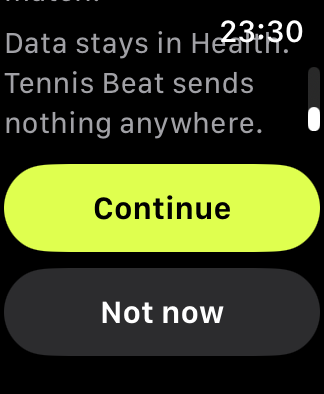
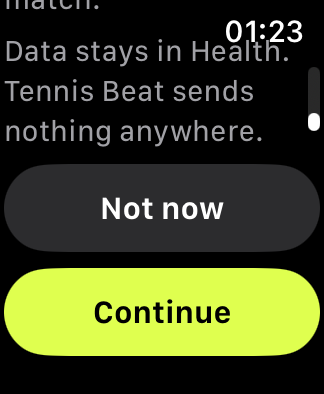
feat(watch): pin Continue at the default size (Denys, #29); review 1 fixes
Continue is pinned to the bottom at the default text size and smaller, so it
shows without scrolling on 40 mm (Denys's design approval condition,
https://github.com/dfinchenko/tennis-beat/pull/29#issuecomment-6203433908);
at larger sizes it scrolls with the text. New UI test: the text scrolls above
the pinned Continue. Review 1: R1-1 evidence entries, R1-2
test-expectation-changes.md, R1-3 the FR-004 test reads the catalogs, R1-4
allow() in the docs, R1-5 design approval link, R1-6 device check 2.

diff --git a/TennisBeat/TennisBeat Watch App/Onboarding/HealthOnboardingView.swift b/TennisBeat/TennisBeat Watch App/Onboarding/HealthOnboardingView.swift
@@ -2,12 +2,14 @@ import SwiftUI
 
 /// Health onboarding (spec 003 Story 1, FR-002; `docs/design/screens/watch-0-health-onboarding.md`):
 /// what Tennis Beat saves to and reads from Health, with Continue (the system sheet) and Not
-/// now. It scrolls and has no Dynamic Type cap (US6 s2).
+/// now. It scrolls and has no Dynamic Type cap (US6 s2); at the default size Continue is
+/// pinned to the bottom so it shows without scrolling (Denys, #29).
 struct HealthOnboardingView: View {
   /// Catalog keys, also the identifiers (contract §1).
   private static let lines = (1...3).map { "health.onboarding.line.\($0)" }
   @Environment(HealthOnboarding.self) private var onboarding
   @State private var isRequesting = false
+  @Environment(\.dynamicTypeSize) private var dynamicTypeSize
 
   var body: some View {
     ScrollView {
@@ -18,6 +20,7 @@ struct HealthOnboardingView: View {
           .fixedSize(horizontal: false, vertical: true)
           .accessibilityAddTraits(.isHeader)
           .accessibilityIdentifier("health.onboarding.title")
+          .accessibilitySortPriority(4)
 
         ForEach(Self.lines, id: \.self) { key in
           Text(LocalizedStringKey(key))
@@ -25,23 +28,10 @@ struct HealthOnboardingView: View {
             .foregroundStyle(Color.watchTextSecondary)
             .fixedSize(horizontal: false, vertical: true)
             .accessibilityIdentifier(key)
+            .accessibilitySortPriority(3)
         }
 
-        Button {
-          isRequesting = true
-          Task {
-            await onboarding.allow()
-            isRequesting = false
-          }
-        } label: {
-          Text("health.onboarding.continue")
-            .font(.watchTitle)
-            .multilineTextAlignment(.center)
-        }
-        .buttonStyle(CapsuleButtonStyle(fill: .brandBall, text: .brandOnBall))
-        .disabled(isRequesting)
-        .accessibilityIdentifier("health.onboarding.continue")
-        .padding(.top, 4)
+        if !pinsContinue { continueButton }
 
         Button(action: onboarding.notNow) {
           Text("health.onboarding.notNow")
@@ -51,10 +41,41 @@ struct HealthOnboardingView: View {
         .buttonStyle(CapsuleButtonStyle(fill: .watchSurfaceRaised, text: .watchTextPrimary))
         .disabled(isRequesting)
         .accessibilityIdentifier("health.onboarding.notNow")
+        .accessibilitySortPriority(1)
+      }
+    }
+    // Denys's design condition on #29: at the default size Continue stays visible without
+    // scrolling; at larger sizes it scrolls with the text, as on the Controls page.
+    .safeAreaInset(edge: .bottom) {
+      if pinsContinue {
+        continueButton.background(Color.watchBackground)
       }
     }
     .accessibilityElement(children: .contain)
     .accessibilityIdentifier("health.onboarding")
+  }
+
+  /// Continue is pinned at the default text size and smaller.
+  private var pinsContinue: Bool { dynamicTypeSize <= .large }
+
+  private var continueButton: some View {
+    Button {
+      isRequesting = true
+      Task {
+        await onboarding.allow()
+        isRequesting = false
+      }
+    } label: {
+      Text("health.onboarding.continue")
+        .font(.watchTitle)
+        .multilineTextAlignment(.center)
+    }
+    .buttonStyle(CapsuleButtonStyle(fill: .brandBall, text: .brandOnBall))
+    .disabled(isRequesting)
+    .accessibilityIdentifier("health.onboarding.continue")
+    // Read after the text and before Not now, wherever it is drawn.
+    .accessibilitySortPriority(2)
+    .padding(.top, 4)
   }
 }
 

diff --git a/TennisBeat/TennisBeat Watch AppTests/InfoPlistTextTests.swift b/TennisBeat/TennisBeat Watch AppTests/InfoPlistTextTests.swift
@@ -41,13 +41,19 @@ struct InfoPlistTextTests {
     }
   }
 
-  @Test("FR-004 the EN read text names heart rate and active energy")
-  func readTextNamesTypes() {
-    let english = Self.readText["en"] ?? ""
-    #expect(english.contains("heart rate") && english.contains("active energy"))
-    // Positive control: the spec 002 text names heart rate only, and fails the check.
+  /// Whether a read text names both types FR-003 reads.
+  static func namesBothTypes(_ text: String) -> Bool {
+    text.contains("heart rate") && text.contains("active energy")
+  }
+
+  @Test(
+    "FR-004 each catalog's EN read text names heart rate and active energy", arguments: catalogs)
+  func readTextNamesTypes(catalog: URL) throws {
+    let english = try Self.values("NSHealthShareUsageDescription", in: catalog)["en"] ?? ""
+    #expect(Self.namesBothTypes(english), "\(catalog.lastPathComponent)")
+    // Positive control: the spec 002 text names heart rate only, and fails the same check.
     let old =
       "Tennis Beat reads your heart rate to show it in your match summary. Health data stays in the Health app."
-    #expect(!(old.contains("heart rate") && old.contains("active energy")))
+    #expect(!Self.namesBothTypes(old))
   }
 }

diff --git a/TennisBeat/TennisBeat Watch AppUITests/HealthOnboardingUITests.swift b/TennisBeat/TennisBeat Watch AppUITests/HealthOnboardingUITests.swift
@@ -47,6 +47,21 @@ final class HealthOnboardingUITests: XCTestCase {
     }
   }
 
+  /// US1 s2 with the pinned Continue: the text scrolls, so the last line and Not now come into
+  /// view above Continue at the default size.
+  @MainActor
+  func testUS1s2TextScrollsAbovePinnedContinue() {
+    let app = launchOnboarding()
+    let continueButton = app.element("health.onboarding.continue")
+    let notNow = app.element("health.onboarding.notNow")
+    let lastLine = app.element("health.onboarding.line.3")
+    for _ in 0..<3 where notNow.frame.maxY > continueButton.frame.minY + 1 { app.dragUp() }
+    XCTAssertGreaterThanOrEqual(notNow.frame.minY, app.frame.minY, "Not now above the screen")
+    XCTAssertLessThanOrEqual(
+      notNow.frame.maxY, continueButton.frame.minY + 1, "Not now under Continue")
+    XCTAssertGreaterThanOrEqual(lastLine.frame.minY, app.frame.minY - 1, "line 3 scrolled past")
+  }
+
   @MainActor
   func testUS1s3ContinueOpensNewMatch() {
     let app = launchOnboarding()

diff --git a/TennisBeat/TennisBeat Watch AppUITests/Support/XCUIApplication+Helpers.swift b/TennisBeat/TennisBeat Watch AppUITests/Support/XCUIApplication+Helpers.swift
@@ -142,3 +142,15 @@ extension XCUIApplication {
     return false
   }
 }
+
+extension XCUIApplication {
+  /// Drags the content up by most of the screen, like a finger. On the watch simulator a
+  /// quick `swipeUp()` doesn't always scroll a `ScrollView` that has a bottom inset (the
+  /// pinned Continue of the Health onboarding, spec 003); a drag and the Digital Crown do.
+  @MainActor
+  func dragUp() {
+    let start = coordinate(withNormalizedOffset: CGVector(dx: 0.5, dy: 0.6))
+    let end = coordinate(withNormalizedOffset: CGVector(dx: 0.5, dy: 0.1))
+    start.press(forDuration: 0.1, thenDragTo: end)
+  }
+}

diff --git a/TennisBeat/TennisBeat Watch AppUITests/ScreenshotUITests.swift b/TennisBeat/TennisBeat Watch AppUITests/ScreenshotUITests.swift
@@ -22,7 +22,9 @@ final class ScreenshotUITests: XCTestCase {
       arguments, language: language, readyElement: "health.onboarding.title")
     app.element("health.onboarding").swipeDown()
     attach(app, "0-health-onboarding")
-    app.reveal(app.element("health.onboarding.notNow"))
+    // Continue is pinned at the default size, so `reveal` sees Not now as on screen; drag the
+    // text to its end instead.
+    for _ in 0..<3 { app.dragUp() }
     attach(app, "0b-health-onboarding-bottom")
   }
 

diff --git a/specs/003-workout-health/test-first-evidence.md b/specs/003-workout-health/test-first-evidence.md
@@ -35,3 +35,26 @@ The tests were committed first, in **`fa6bd25`** (T003, T004, T008, T011–T015)
 **The 002 UI tests (SC-005):** with the helper's `-uiTestHealth denied` default (T008), the full UI suite on the code before the UI-test wait fix ran 71 tests: 60 passed, 6 skipped (the opt-in screenshot tests), and 5 failed, all of them new onboarding tests (below). Every spec 002 UI test passed.
 
 **One test-harness problem, fixed before review (not an expectation change):** the onboarding UI tests first waited for Continue to be hittable at launch. On the 40 mm watch Continue starts below the fold, so they timed out even with the onboarding on screen. They now wait for the title, and the `tap` helper scrolls to the buttons as before. With that change all six pass on `6fee9dc`.
+
+**Not run for evidence:** `ScreenshotUITests.testHealthOnboardingScreens` (T015) is opt-in (it skips unless `SCREENSHOT_LANGUAGE` is set, so CI skips it) and asserts nothing: it only attaches the PR screenshots. Run for the screenshots in EN, PL and UK at the default size and XXXL.
+
+### Review 1 and Denys's design condition (#29)
+
+**Continue visible without scrolling** ([Denys, #29](https://github.com/dfinchenko/tennis-beat/pull/29#issuecomment-6203433908)): `HealthOnboardingUITests.testDesignContinueVisibleWithoutScrollingAtDefaultSize` was committed in **`99cec81`**, before the pinned Continue. Run on `99cec81`: failed, "Continue off screen in en" (the test stops at the first language). With the pinned Continue it passes in EN, PL and UK.
+
+**R1-3, `InfoPlistTextTests` "FR-004 each catalog's EN read text names heart rate and active energy"** now reads each catalog's EN value instead of a constant in the test (listed in `test-expectation-changes.md`). Run against a recorded mutation (never committed): the watch catalog's EN `NSHealthShareUsageDescription` set back to the spec 002 text, "Tennis Beat reads your heart rate to show it in your match summary. Health data stays in the Health app.". Result: `readTextNamesTypes(catalog:)` and `readTextInCatalog(catalog:)` failed for the watch catalog and passed for the iPhone catalog, which kept the new text.
+
+**`HealthOnboardingUITests.testUS1s2TextScrollsAbovePinnedContinue`** checks the pinned layout: the text drags up until Not now and line 3 sit above Continue. It was written after the pinned Continue (it doesn't apply to the earlier layout, where Not now sits under Continue), so it was run against a recorded mutation of the final code (never committed):
+
+```diff
+--- a/TennisBeat/TennisBeat Watch App/Onboarding/HealthOnboardingView.swift
++++ b/TennisBeat/TennisBeat Watch App/Onboarding/HealthOnboardingView.swift
+       }
+     }
++    .scrollDisabled(true)  // MUTATION
+     // Denys's design condition on #29: at the default size Continue stays visible without
+```
+
+Result: failed, "Not now under Continue" (Not now's bottom at 348 pt, Continue's top at 135 pt). Without the mutation it passes.
+
+**Another test-harness finding:** with the pinned Continue, a quick XCUITest `swipeUp()` on the watch simulator doesn't scroll the onboarding's `ScrollView`, while a press-and-drag and the Digital Crown do (a temporary probe, not committed: Not now moved from y 304 to 82 under both). The UI tests and the screenshot test now use the helper `dragUp()` (a press-and-drag). Scrolling with a finger and the crown on a real watch is part of device check 2.

diff --git a/specs/003-workout-health/tasks.md b/specs/003-workout-health/tasks.md
@@ -91,7 +91,7 @@ US6 (accessibility and languages) is cross-cutting: each PR meets it for its own
 
 - [X] T011 [P] [US1] `UnitTests/HealthOnboardingTests.swift` (data-model § HealthOnboarding):
   - "US1 s1": `.shouldRequest` → `needsOnboarding` true;
-  - "US1 s3": `continue()` calls `requestAuthorization()` once, then `needsOnboarding` false;
+  - "US1 s3": `allow()` (Continue) calls `requestAuthorization()` once, then `needsOnboarding` false;
   - "US1 s4": `notNow()` → false, no request; a new `HealthOnboarding` (next launch) with the same `.shouldRequest` → true again;
   - "US1 s5": `.unnecessary` → false; `.unknown` → false;
   - "US1 s1, s6": while the status is being read, the root shows nothing; `.shouldRequest` within 1 s → onboarding, never New match first; no answer after 1 s (`ManualSleep` released) → New match, and a late `.shouldRequest` is ignored for this launch.
@@ -108,7 +108,7 @@ US6 (accessibility and languages) is cross-cutting: each PR meets it for its own
 ### Code
 
 - [X] T016 [US1] Add the onboarding strings to `App/Localizable.xcstrings` from the copy table: EN source, PL draft, UK (line 2 approved R1-4, line 3 second sentence R1-5), using «Здоров’я» with the typographic apostrophe (research R9, R13). No string addresses the player as «ти» / «ви».
-- [X] T017 [US1] Create `App/Health/HealthOnboarding.swift` (`@Observable`, main actor): `requestStatus`, `skippedThisLaunch` (not stored, Q4), `needsOnboarding`, `continue()`, `notNow()`; reads the status once at launch.
+- [X] T017 [US1] Create `App/Health/HealthOnboarding.swift` (`@Observable`, main actor): `requestStatus`, `skippedThisLaunch` (not stored, Q4), `needsOnboarding`, `allow()` (Continue), `notNow()`; reads the status once at launch.
 - [X] T018 [US1] Create `App/Onboarding/HealthOnboardingView.swift` (research R14): a `ScrollView` with the title (Watch/Headline), three lines (Watch/Body, `watch/text-secondary`), Continue (primary capsule, `brand/ball`) and Not now (secondary capsule, `watch/surface-raised`), identifiers of contract §1. No Dynamic Type cap.
 - [X] T019 [US1] `App/RootView.swift`: wait for the status read up to 1 s (data-model § HealthOnboarding, Launch), then show `HealthOnboardingView` while `needsOnboarding`, otherwise the setup flow. Both buttons lead to New match.
 - [X] T020 [US1] FR-004 texts, **catalogs first**: update `NSHealthShareUsageDescription` in `App/InfoPlist.xcstrings` and `TennisBeat/TennisBeat/InfoPlist.xcstrings` (EN, PL, UK from the copy table), then `INFOPLIST_KEY_NSHealthShareUsageDescription` in all four app build configurations in `TennisBeat/TennisBeat.xcodeproj/project.pbxproj` to the exact EN value (R1-3). Run `scripts/gates/check-infoplist-strings.sh` and `check-project-format.sh`.

diff --git a/docs/design/screens/watch-0-health-onboarding.md b/docs/design/screens/watch-0-health-onboarding.md
@@ -3,7 +3,7 @@
 ![Watch 0 — Health onboarding, top](watch-0-health-onboarding.png)
 ![Watch 0 — Health onboarding, bottom](watch-0-health-onboarding-bottom.png)
 
-- **Source:** added by spec 003 (Story 1, FR-002; research R14). There is no Figma frame: the export has only the iPhone version ([iPhone 1](iphone-1-health-permission.md)). The PNGs are simulator screenshots (Apple Watch SE 3, 40 mm, EN, default text size). **Approval:** Denys, in the 003 PR 1 review.
+- **Source:** added by spec 003 (Story 1, FR-002; research R14). There is no Figma frame: the export has only the iPhone version ([iPhone 1](iphone-1-health-permission.md)). The PNGs are simulator screenshots (Apple Watch SE 3, 40 mm, EN, default text size). **Approval:** [Denys, #29](https://github.com/dfinchenko/tennis-beat/pull/29#issuecomment-6203433908), with one condition: at the default text size on the 40 mm watch, Continue is visible without scrolling; at larger sizes scrolling is fine, as on the Controls page.
 - **Tokens:** `../tokens.json`. **Type:** `../typography.md`. Built only from tokens and styles spec 002 already uses.
 
 ## When it shows
@@ -13,10 +13,10 @@ Before New match, at launch, while the system Health permission sheet has never 
 Black background, one `ScrollView` (no Dynamic Type cap):
 1. Title "Matches as workouts in Health" (Watch/Headline, `brand/ball`), a header for VoiceOver.
 2. Three lines (Watch/Body, `watch/text-secondary`): what is saved, what is read, that data stays in Health.
-3. **Continue**: primary capsule (`brand/ball`, text `brand/on-ball`, ≥ 44 pt), the same style as Start on New match. It shows the system sheet; any answer leads to New match.
+3. **Continue**: primary capsule (`brand/ball`, text `brand/on-ball`, ≥ 44 pt), the same style as Start on New match. It shows the system sheet; any answer leads to New match. At the default text size and smaller it is **pinned to the bottom** over a black band, so it shows without scrolling while the text scrolls above it ([Denys's condition](https://github.com/dfinchenko/tennis-beat/pull/29#issuecomment-6203433908)); at larger sizes it sits after the text and scrolls with it.
 4. **Not now**: secondary capsule (`watch/surface-raised`, `watch/text-primary`, ≥ 44 pt), the same style as Undo on the summary. New match, no sheet.
 
-On the 40 mm watch the buttons sit below the fold at the default size; the screen scrolls (US1 s2).
+On the 40 mm watch at the default size the text and Not now scroll; Continue stays on screen. Sort priorities ask VoiceOver for the title, the three lines, Continue, then Not now, wherever Continue is drawn; the order on a real watch is part of device check 2.
 
 ## Texts
 From the spec 003 copy table (EN / PL / UK; PL drafts go to the native review, #22):

diff --git a/docs/harness.md b/docs/harness.md
@@ -71,7 +71,7 @@ Then Denys reviews the spec and sets `Status: Approved`. After that: `/speckit-p
 ## Device checklist (Denys, before every TestFlight build)
 - [ ] Full match on court: scoring, undo, change-of-ends haptics
 - [ ] Health permission denied: scoring still works, no crashes
-- [ ] Health onboarding (spec 003, device check 2): on a fresh install the onboarding shows before New match; Continue shows the system Health sheet and every answer leads to New match; after Not now the onboarding returns on the next launch; once the sheet has been answered it never returns
+- [ ] Health onboarding (spec 003, device check 2): on a fresh install the onboarding shows before New match; Continue shows the system Health sheet and every answer leads to New match; after Not now the onboarding returns on the next launch; once the sheet has been answered it never returns; at the default text size Continue is visible without scrolling, the text scrolls with a finger and with the Digital Crown up to Not now above Continue; and VoiceOver reads the title, the three lines, Continue, then Not now; on a cold launch right after install the onboarding still appears (the app waits at most 1 s for HealthKit's answer and skips the onboarding for that launch if it is slower)
 - [ ] Always On: score readable, no seconds or animations
 - [ ] Largest agreed Dynamic Type size (spec 002, Q9: every size on setup, controls and summary; the largest standard size on the score screen): nothing clipped. Layout is checked on the 40 mm watch simulator (the smallest watch watchOS 26 supports); the real-device check runs on Denys's own watch
 - [ ] iPhone far away during the match: match arrives later

diff --git a/specs/003-workout-health/test-expectation-changes.md b/specs/003-workout-health/test-expectation-changes.md
@@ -1,0 +1,15 @@
+# Test expectation changes: 003-workout-health
+
+Expectations changed after the code they check was written (rule: CLAUDE.md, Hard rules; `docs/harness.md`). One section per branch, newest last.
+
+## `feat/003-onboarding` (PR 1)
+
+| Test | Old → new expectation | Source |
+| --- | --- | --- |
+| `InfoPlistTextTests` "FR-004 the EN read text names heart rate and active energy" → "FR-004 each catalog's EN read text names heart rate and active energy" | Checked the copy-table constant in the test → checks the EN value read from each `InfoPlist.xcstrings` (one case per catalog). The condition is the same (names "heart rate" and "active energy"); it now checks the product. The positive control is kept. Reviewer finding #29 R1-3. | FR-004 |
+
+No other expectation changed. Helper and wait changes that leave every expectation as it was, and so are not listed above:
+- the UI-test helper's default `-uiTestHealth denied` (SC-005);
+- the onboarding UI tests waiting for the title instead of Continue;
+- the injected `workout:` argument in the 002 unit tests.
+- the new `dragUp()` UI-test helper, used by the onboarding scrolling test and the screenshot test instead of `swipeUp()`.

diff --git a/specs/003-workout-health/data-model.md b/specs/003-workout-health/data-model.md
@@ -127,7 +127,7 @@ No statistics (`workoutState` `none` or `failed`) → no rows: the spec 002 summ
 | `skippedThisLaunch` | `Bool` | Not now (Q4); not stored |
 | `needsOnboarding` | derived | `requestStatus == .shouldRequest && !skippedThisLaunch` |
 
-Commands: `continue()` → `requestAuthorization()`, then `requestStatus = .unnecessary`; `notNow()` → `skippedThisLaunch = true`. Both lead to New match (Story 1 s3, s4).
+Commands: `allow()` (Continue; `continue` is a Swift keyword) → `requestAuthorization()`, then `requestStatus = .unnecessary`; `notNow()` → `skippedThisLaunch = true`. Both lead to New match (Story 1 s3, s4).
 
 Launch: the status read is fast and local. The root view waits for it, up to **1 second**, before showing anything, so New match never flashes before the onboarding (Story 1 s1). On `.shouldRequest` it shows the onboarding; on any other answer, or when 1 s passes without one, it shows New match, so a slow read never blocks the remembered format and Start (Story 1 s6). An answer that arrives after the timeout is ignored for this launch. `HealthOnboarding` takes an injected `sleep` for the wait, so tests drive it by hand.
 
